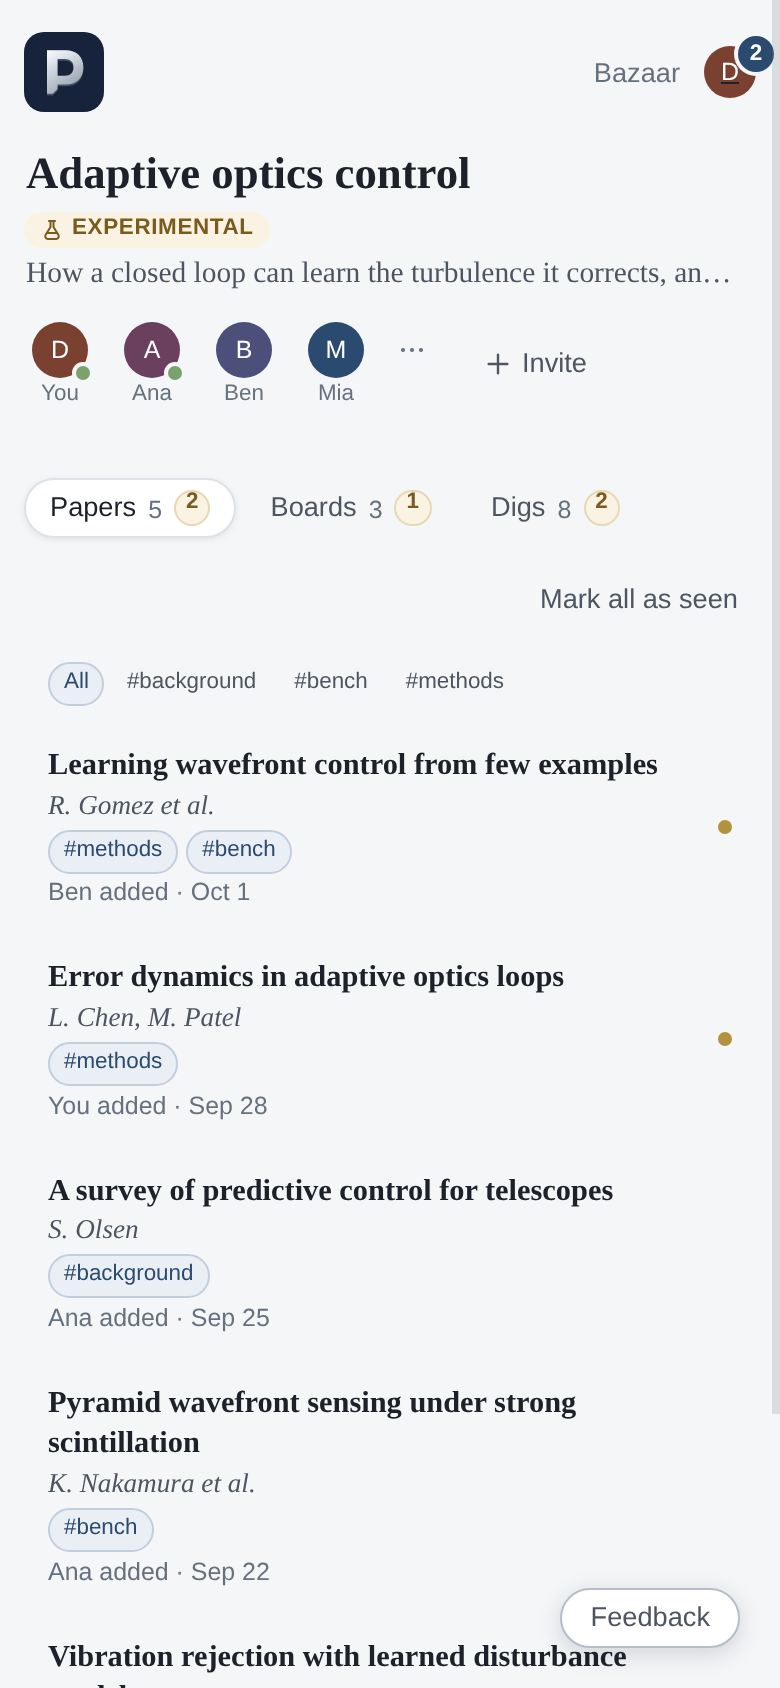
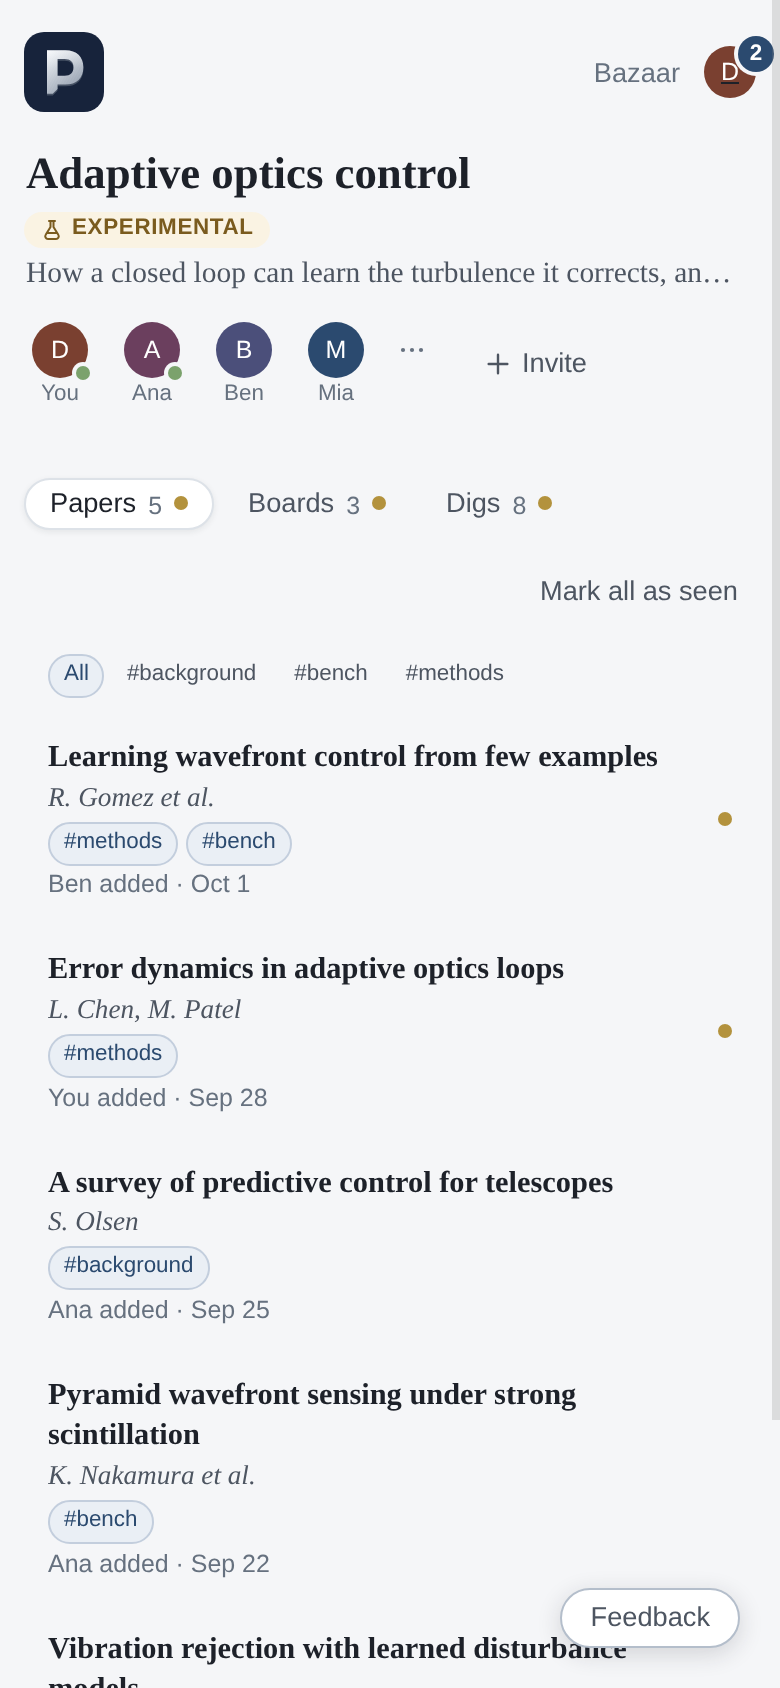
Use one dot for project news

diff --git a/frontend/src/components/ProjectPage.jsx b/frontend/src/components/ProjectPage.jsx
@@ -167,9 +167,9 @@ export default function ProjectPage({ projectUuid, board = null, currentUser, on
   const newPapers = project.papers.some((p) => p.is_new);
   const newTalk = talkedAbout.some((d) => d.is_new);
   const fresh = {
-    papers: project.papers.filter((p) => p.is_new).length,
-    boards: boards.filter((b) => b.is_new).length,
-    digs: talkedAbout.filter((d) => d.is_new).length,
+    papers: project.papers.some((p) => p.is_new),
+    boards: boards.some((b) => b.is_new),
+    digs: talkedAbout.some((d) => d.is_new),
   };
   const markAll = async () => {
     const items = [
@@ -533,13 +533,13 @@ function DeskTabs({ view, onView, counts, fresh }) {
         <button
           key={v} type="button" role="tab" id={`project-tab-${v}`} aria-controls="project-view"
           aria-selected={view === v} tabIndex={view === v ? 0 : -1}
-          aria-label={`${label}, ${fresh[v] ? `${fresh[v]} new, ` : ''}${counts[v]} total`}
+          aria-label={`${label}, ${fresh[v] ? 'new activity, ' : ''}${counts[v]} total`}
           className={`project-tab${view === v ? ' is-on' : ''}`}
           onClick={() => onView(v)} onKeyDown={move}
         >
           {label}
           {counts[v] > 0 && <span className="project-tab-count" aria-hidden="true">{counts[v]}</span>}
-          {fresh[v] > 0 && <span className="project-tab-new" aria-hidden="true">{fresh[v]}</span>}
+          {fresh[v] && <NewsDot />}
         </button>
       ))}
     </nav>
